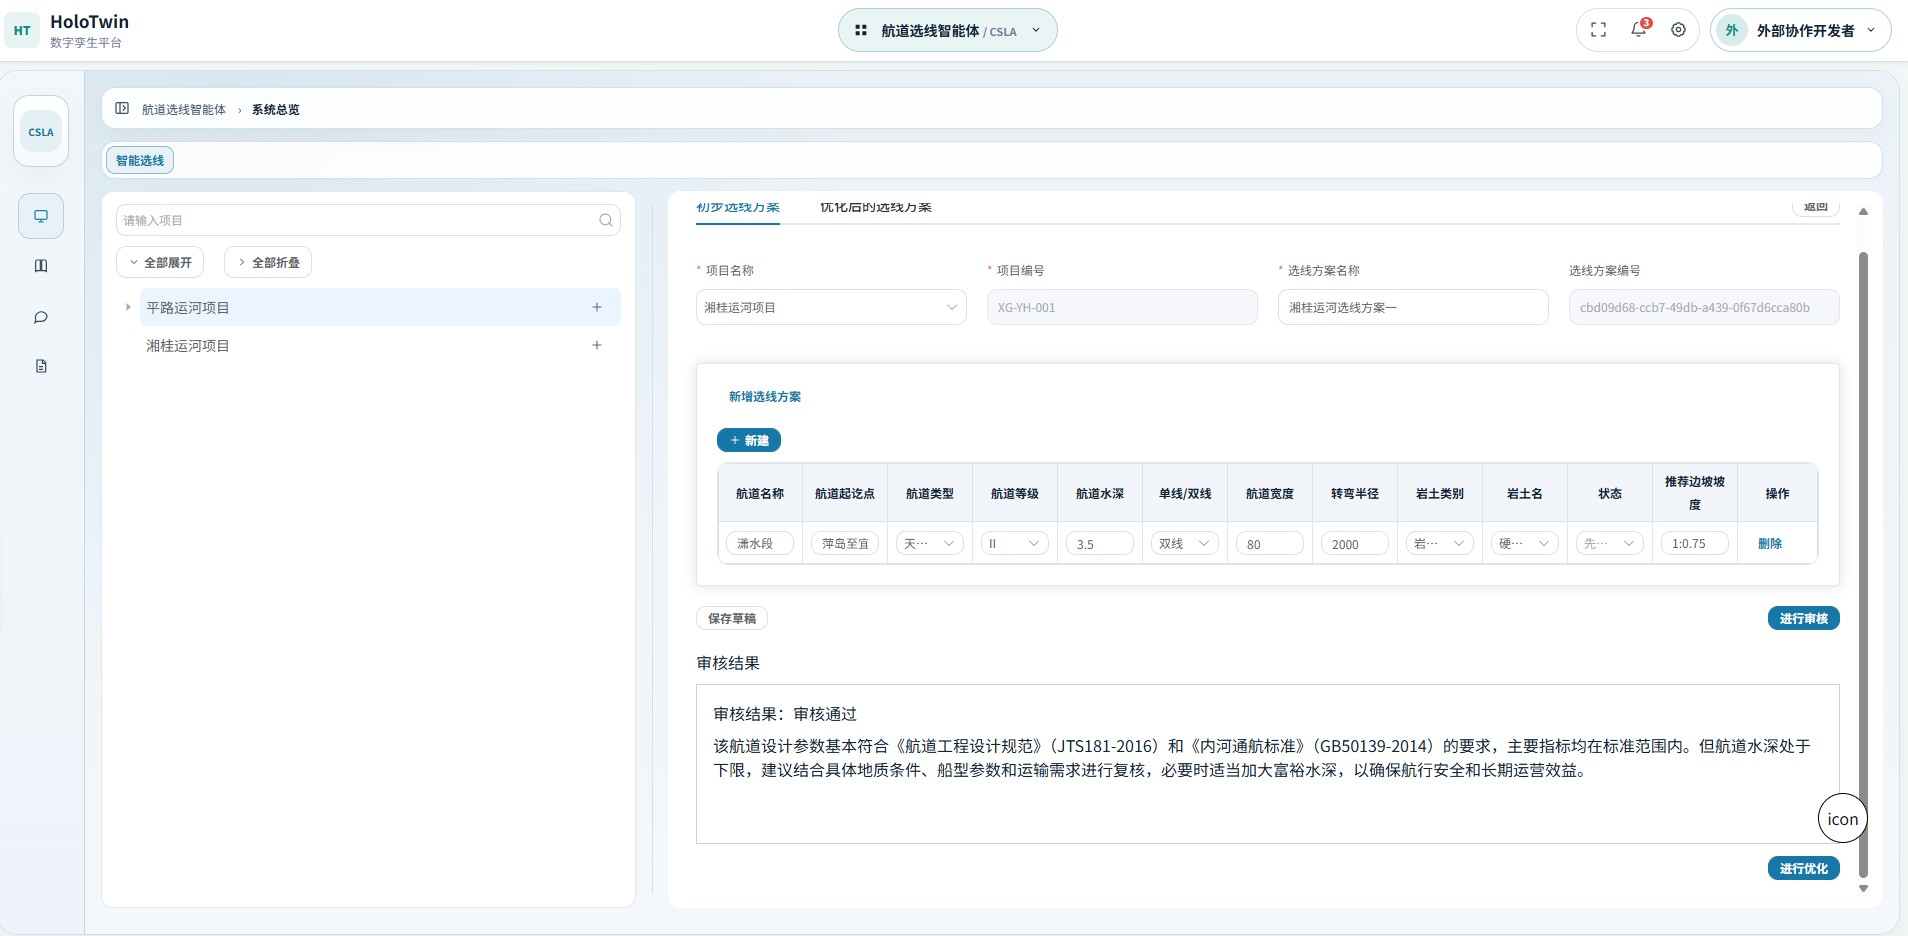
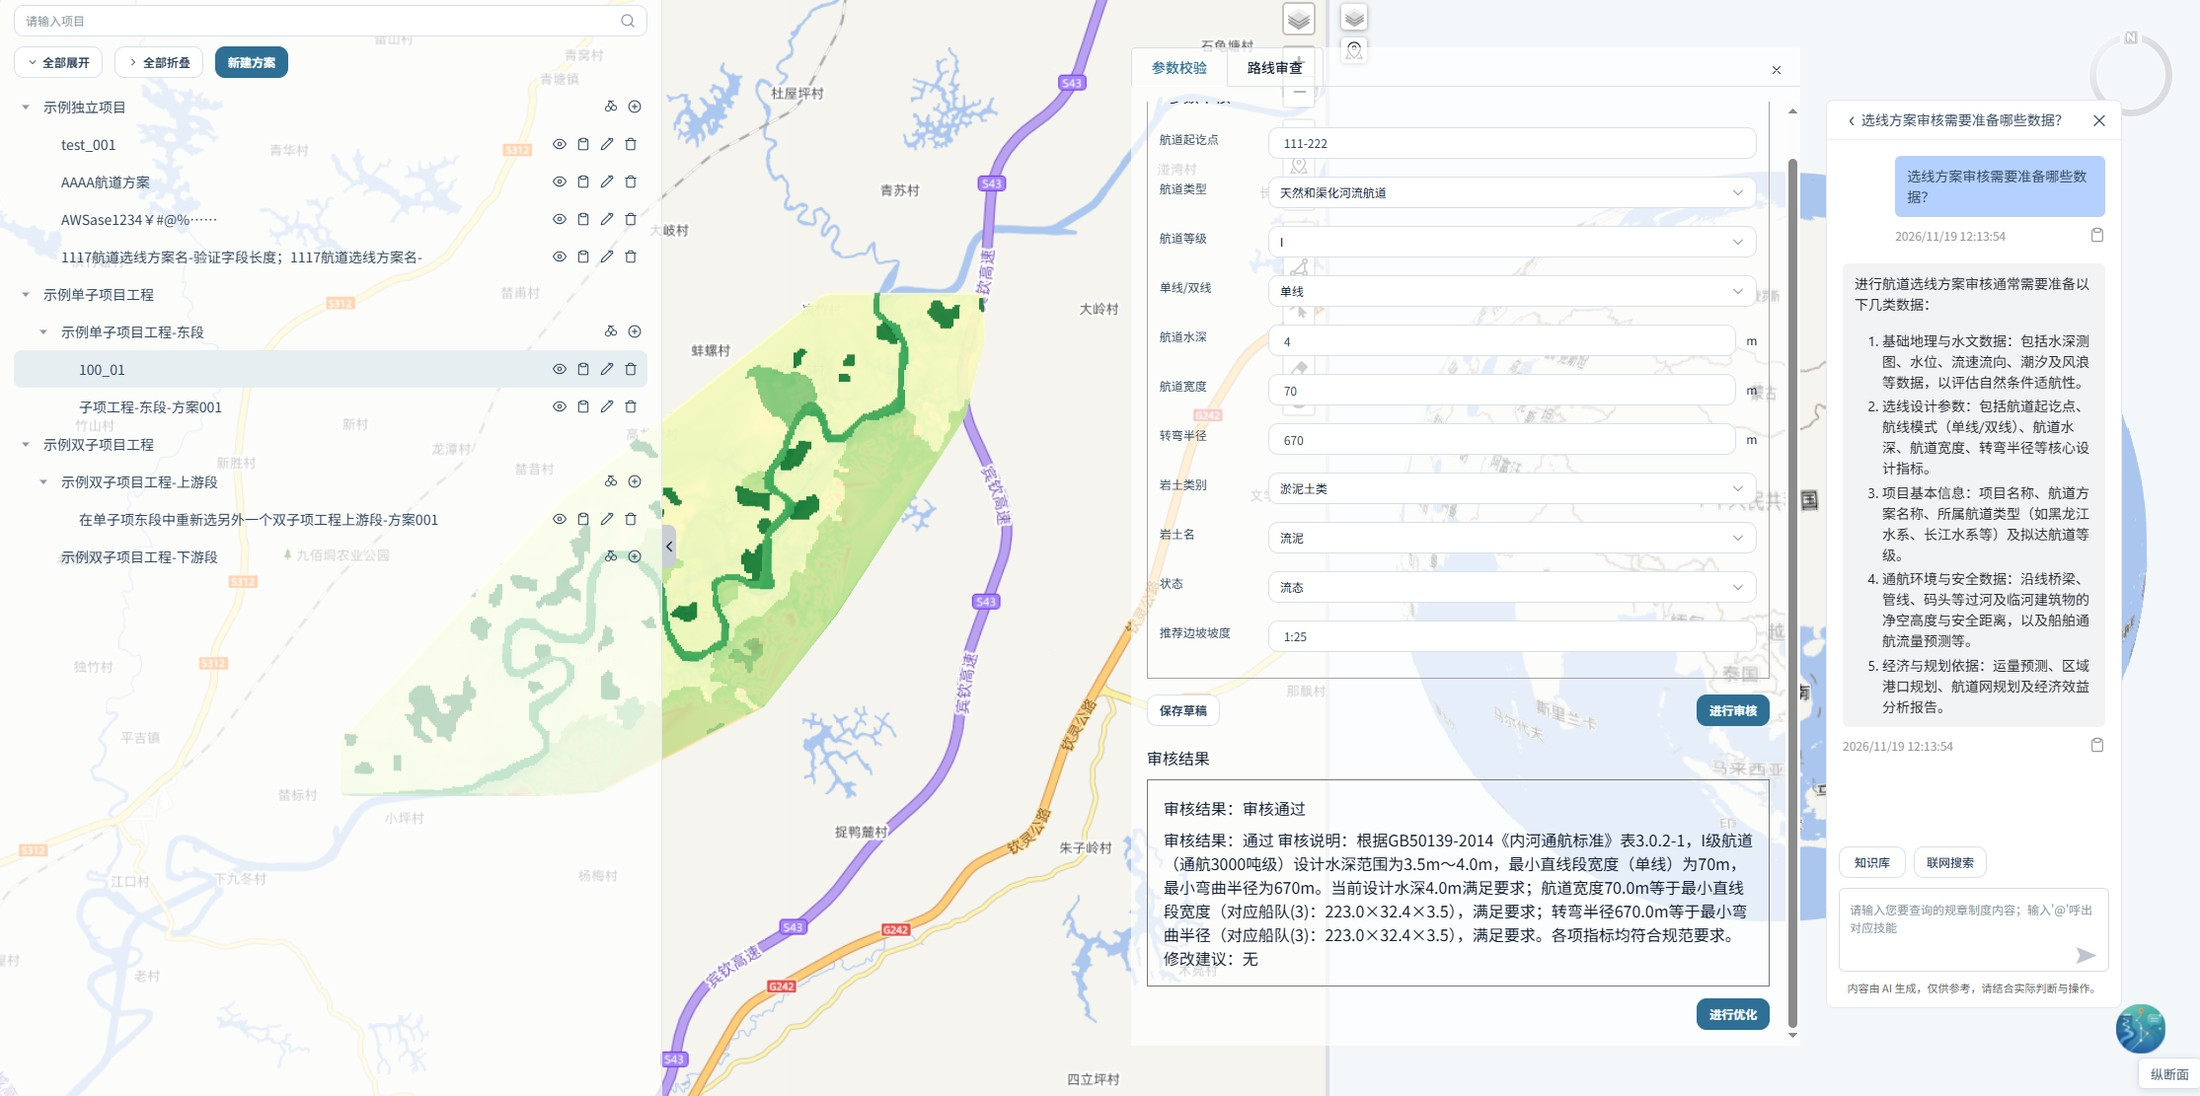
release

diff --git a/preview/index.html b/preview/index.html
@@ -1871,15 +1871,13 @@ window.ATLAS = {
    ],
    "features": [
     "智能编排与分镜生成",
-    "连续生成，突破时长限制",
+    "突破时长限制",
     "规范可控，适配企业应用",
     "多模态素材融合",
     "多模态形象定制",
-    "声音克隆",
     "智能体大脑直连",
     "口播自动化生成",
-    "全媒体资源管控",
-    "私有化部署"
+    "全媒体资源管控"
    ],
    "pricing": [
     "平台订阅",
@@ -4571,7 +4569,7 @@ window.ATLAS_CONTENT.composites = [
   }
 ];
 </script>
-<script>var COVERS = {"p01": ["./assets/img/covers/p01-1.jpg"], "p02": ["./assets/img/covers/p02-1.jpg", "./assets/img/covers/p02-2.jpg", "./assets/img/covers/p02-3.jpg"], "p03": ["./assets/img/covers/p03-1.jpg", "./assets/img/covers/p03-2.jpg", "./assets/img/covers/p03-3.jpg"], "p04": ["./assets/img/covers/p04-1.jpg", "./assets/img/covers/p04-2.jpg", "./assets/img/covers/p04-3.jpg"], "p05": ["./assets/img/covers/p05-1.jpg", "./assets/img/covers/p05-2.jpg"], "p09": ["./assets/img/covers/p09-1.jpg"], "p10": ["./assets/img/covers/p10-1.jpg", "./assets/img/covers/p10-2.jpg", "./assets/img/covers/p10-3.jpg"], "p11": ["./assets/img/covers/p11-1.jpg", "./assets/img/covers/p11-2.jpg"], "p15": ["./assets/img/covers/p15-1.jpg"], "p13": ["./assets/img/covers/p13-1.jpg", "./assets/img/covers/p13-2.jpg"], "p14": ["./assets/img/covers/p14-1.jpg", "./assets/img/covers/p14-2.jpg", "./assets/img/covers/p14-3.jpg"], "p16": ["./assets/img/covers/p16-1.jpg", "./assets/img/covers/p16-2.jpg"], "p17": ["./assets/img/covers/p17-1.jpg", "./assets/img/covers/p17-2.jpg", "./assets/img/covers/p17-3.jpg"], "p12": ["./assets/img/covers/p12-1.jpg", "./assets/img/covers/p12-2.jpg", "./assets/img/covers/p12-3.jpg"], "p18": ["./assets/img/covers/p18-1.jpg", "./assets/img/covers/p18-2.jpg"], "p19": ["./assets/img/covers/p19-1.jpg", "./assets/img/covers/p19-2.jpg"], "p20": ["./assets/img/covers/p20-1.jpg"], "p21": ["./assets/img/covers/p21-1.jpg"], "p24": ["./assets/img/covers/p24-1.jpg", "./assets/img/covers/p24-2.jpg", "./assets/img/covers/p24-3.jpg"], "p31": ["./assets/img/covers/p31-1.jpg", "./assets/img/covers/p31-2.jpg", "./assets/img/covers/p31-3.jpg"], "p25": ["./assets/img/covers/p25-1.jpg", "./assets/img/covers/p25-2.jpg", "./assets/img/covers/p25-3.jpg"], "p27": ["./assets/img/covers/p27-1.jpg", "./assets/img/covers/p27-2.jpg", "./assets/img/covers/p27-3.jpg"], "p32": ["./assets/img/covers/p32-1.jpg", "./assets/img/covers/p32-2.jpg"], "p29": ["./assets/img/covers/p29-1.jpg"], "p33": ["./assets/img/covers/p33-1.jpg", "./assets/img/covers/p33-2.jpg", "./assets/img/covers/p33-3.jpg"], "p34": ["./assets/img/covers/p34-1.jpg", "./assets/img/covers/p34-2.jpg", "./assets/img/covers/p34-3.jpg"], "p35": ["./assets/img/covers/p35-1.jpg"], "p39": ["./assets/img/covers/p39-1.jpg"], "p40": ["./assets/img/covers/p40-1.jpg"], "p41": ["./assets/img/covers/p41-1.jpg"], "p42": ["./assets/img/covers/p42-1.jpg"], "p43": ["./assets/img/covers/p43-1.jpg"]};
+<script>var COVERS = {"p01": ["./assets/img/covers/p01-1.jpg"], "p02": ["./assets/img/covers/p02-1.jpg", "./assets/img/covers/p02-2.jpg", "./assets/img/covers/p02-3.jpg"], "p03": ["./assets/img/covers/p03-1.jpg", "./assets/img/covers/p03-2.jpg", "./assets/img/covers/p03-3.jpg"], "p04": ["./assets/img/covers/p04-1.jpg", "./assets/img/covers/p04-2.jpg", "./assets/img/covers/p04-3.jpg"], "p05": ["./assets/img/covers/p05-1.jpg", "./assets/img/covers/p05-2.jpg"], "p09": ["./assets/img/covers/p09-1.jpg"], "p10": ["./assets/img/covers/p10-1.jpg", "./assets/img/covers/p10-2.jpg", "./assets/img/covers/p10-3.jpg"], "p11": ["./assets/img/covers/p11-1.jpg", "./assets/img/covers/p11-2.jpg"], "p15": ["./assets/img/covers/p15-1.jpg"], "p13": ["./assets/img/covers/p13-1.jpg", "./assets/img/covers/p13-2.jpg"], "p14": ["./assets/img/covers/p14-1.jpg", "./assets/img/covers/p14-2.jpg", "./assets/img/covers/p14-3.jpg"], "p16": ["./assets/img/covers/p16-1.jpg", "./assets/img/covers/p16-2.jpg"], "p17": ["./assets/img/covers/p17-1.jpg", "./assets/img/covers/p17-2.jpg", "./assets/img/covers/p17-3.jpg"], "p12": ["./assets/img/covers/p12-1.jpg", "./assets/img/covers/p12-2.jpg", "./assets/img/covers/p12-3.jpg"], "p18": ["./assets/img/covers/p18-1.jpg", "./assets/img/covers/p18-2.jpg"], "p19": ["./assets/img/covers/p19-1.jpg", "./assets/img/covers/p19-2.jpg"], "p20": ["./assets/img/covers/p20-1.jpg"], "p21": ["./assets/img/covers/p21-1.jpg"], "p24": ["./assets/img/covers/p24-1.jpg", "./assets/img/covers/p24-2.jpg", "./assets/img/covers/p24-3.jpg"], "p31": ["./assets/img/covers/p31-1.jpg", "./assets/img/covers/p31-2.jpg", "./assets/img/covers/p31-3.jpg"], "p25": ["./assets/img/covers/p25-1.jpg", "./assets/img/covers/p25-2.jpg", "./assets/img/covers/p25-3.jpg"], "p27": ["./assets/img/covers/p27-1.jpg", "./assets/img/covers/p27-2.jpg", "./assets/img/covers/p27-3.jpg"], "p32": ["./assets/img/covers/p32-1.jpg", "./assets/img/covers/p32-2.jpg"], "p29": ["./assets/img/covers/p29-1.jpg"], "p33": ["./assets/img/covers/p33-1.jpg", "./assets/img/covers/p33-2.jpg", "./assets/img/covers/p33-3.jpg"], "p34": ["./assets/img/covers/p34-1.jpg", "./assets/img/covers/p34-2.jpg", "./assets/img/covers/p34-3.jpg"], "p28": ["./assets/img/covers/p28-1.jpg"], "p36": ["./assets/img/covers/p36-1.jpg"], "p37": ["./assets/img/covers/p37-1.jpg"], "p35": ["./assets/img/covers/p35-1.jpg"], "p39": ["./assets/img/covers/p39-1.jpg"], "p40": ["./assets/img/covers/p40-1.jpg"], "p41": ["./assets/img/covers/p41-1.jpg"], "p42": ["./assets/img/covers/p42-1.jpg"], "p43": ["./assets/img/covers/p43-1.jpg"]};
 </script>
 <script>
 (function(){
@@ -4663,7 +4661,7 @@ window.ATLAS_CONTENT.composites = [
 
 
   // 能力图片与入口（V3 设计移植）
-  var ENTRY = {"p02": {"label": "打开训练平台", "url": "https://lanyi-trainer.ccccltd.cn/"}, "p03": {"label": "打开模型广场", "url": "https://c4ai.ccccltd.cn/maasAdmin/"}, "p04": {"label": "打开智能体中心", "url": "https://jiaorong.ccccltd.cn/agent.html"}, "p11": {"label": "打开 AI 门户", "url": "https://jiaorong.ccccltd.cn/"}, "p15": {"label": "打开数字人平台", "url": "https://c4ai.ccccltd.cn/digital_human/home"}, "p17": {"label": "打开 PageAgent", "url": "https://jiaorong.ccccltd.cn/browser-assistant"}, "p24": {"label": "打开商机罗盘", "url": "https://www.kdocs.cn/l/cb9F9BlWhwMK"}, "p35": {"label": "打开 Token 大市场", "url": "https://c4ai.ccccltd.cn/maasAdmin/"}};
+  var ENTRY = {"p02": {"label": "打开训推平台", "url": "https://lanyi-trainer.ccccltd.cn/"}, "p03": {"label": "打开模型广场", "url": "https://c4ai.ccccltd.cn/maasAdmin/"}, "p04": {"label": "打开智能体中心", "url": "https://jiaorong.ccccltd.cn/agent.html"}, "p11": {"label": "打开 AI 门户", "url": "https://jiaorong.ccccltd.cn/"}, "p15": {"label": "打开数字人平台", "url": "https://c4ai.ccccltd.cn/digital_human/home"}, "p17": {"label": "打开 PageAgent", "url": "https://jiaorong.ccccltd.cn/browser-assistant"}, "p24": {"label": "打开商机罗盘", "url": "https://www.kdocs.cn/l/cb9F9BlWhwMK"}, "p35": {"label": "打开模型中心", "url": "https://c4ai.ccccltd.cn/maasAdmin/"}};
   function coverHtml(p, color){
     var imgs = (window.COVERS || {})[p.id] || [];
     if (!imgs.length){
@@ -4817,7 +4815,7 @@ window.ATLAS_CONTENT.composites = [
           '<p class="d-label">关键特性</p><div class="d-tags">' + (p.features||[]).map(function(x){ return '<span class="tag">' + esc(x) + '</span>'; }).join("") + '</div>' +
           '<p class="d-label">计费方式</p><div class="d-tags">' + (p.pricing||[]).map(function(x){ return '<span class="tag">' + esc(x) + '</span>'; }).join("") + '</div>' +
           (ENTRY[p.id]
-            ? '<div class="d-entry"><a class="entry-btn" href="' + esc(ENTRY[p.id].url) + '" target="_blank" rel="noopener">' + esc(ENTRY[p.id].label) + ' <span aria-hidden="true">↗</span></a><span class="entry-note">官网 / 试用入口</span></div>'
+            ? '<div class="d-entry"><a class="entry-btn" href="' + esc(ENTRY[p.id].url) + '" target="_blank" rel="noopener">' + esc(ENTRY[p.id].label) + ' <span aria-hidden="true">↗</span></a></div>'
             : '') +
         '</div>' +
         '</div>' +
